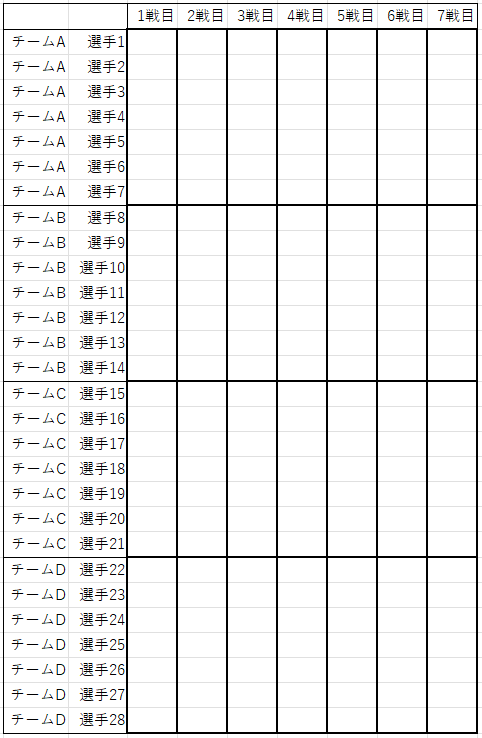
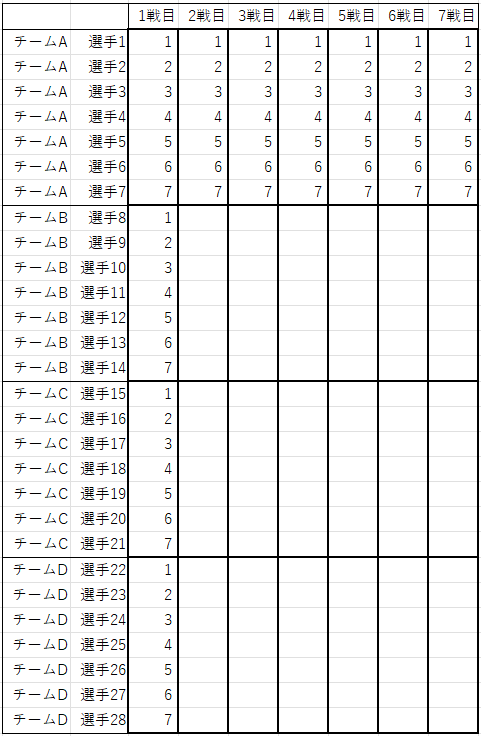
update common process (put 1-n)

Changed region(s): [[0.0, 0.0, 0.9979, 1.0]]

diff --git a/public/4team_sen_method.html b/public/4team_sen_method.html
@@ -23,7 +23,9 @@
       選手番号は、チームごとに固めます (先頭 4 分の 1 である選手 1 ～ n がチーム A, その次の 4 分の 1 がチーム B, ...)。<br />
       冒頭の条件を満たすには、「あるチーム (n 人) と、ある対戦が交わる n マス」それぞれに (同じ相手と複数回同卓しないようにしつつ) 1 ～ n
       までの卓番号を入れていけばよいです。<br />
-      下の画像は 7 卓 28 人 7 戦の例です。黒い太枠それぞれに、1 ～ 7 までの卓番号をうまく入れられればよいです。
+      一番左の列 (1 戦目) と一番上の段 (チーム A) にはあらかじめ「1, 2, 3, ...,
+      n」を入れて問題ありません。(冒頭の条件を満たす入れ方がある場合、そのうちの少なくとも 1 パターンが必ずこのようになることが証明できます。)<br />
+      下の画像は 7 卓 28 人 7 戦の例です。残る黒い太枠それぞれに、1 ～ 7 までの卓番号をうまく入れられればよいです。
     </p>
     <img src="images/4team_00.png" alt="7 卓 28 人 7 戦の場合の具体例 (卓番号を入れる前)" />
 
@@ -31,7 +33,6 @@
 
     <p>容易に n 戦 (他チームの全員と同卓できる) の卓組を構成できる方法があり、それを使用しました。</p>
     <ul>
-      <li>まず、一番左の列 (1 戦目) と一番上の段 (チーム A) には、すべて「1, 2, 3, ..., n」を入れる。</li>
       <li>チーム B の 2 戦目以降には、1 つ前の対戦から <b>1 つ</b>卓番号を増やしたもの (*) を順番に入れていく (2 戦目なら「2, 3, ..., n, 1」)。</li>
       <li>チーム C の 2 戦目以降には、1 つ前の対戦から <b>2 つ</b>卓番号を増やしたもの (*) を順番に入れていく (2 戦目なら「3, 4, ..., 1, 2」)。</li>
       <li>チーム D の 2 戦目以降には、1 つ前の対戦から <b>3 つ</b>卓番号を増やしたもの (*) を順番に入れていく (2 戦目なら「4, 5, ..., 2, 3」)。</li>
@@ -51,8 +52,8 @@
     </p>
     <img src="images/4team_02.png" alt="6 卓 24 人 6 戦の卓組を作ろうとした際の失敗例" />
     <p>
-      各「黒い太枠」について、1 ～ n の番号の入れ方の全パターンを探索するプログラムを組むことができますが、1 ～ n の並べ替え方は n! 通りであり、それを
-      10 個以上もとなると、n が 6 程度であっても、全パターンを探索するのは現実的ではありません。<br />
+      空いている各「黒い太枠」について、1 ～ n の番号の入れ方の全パターンを探索するプログラムを組むことができますが、1 ～ n の並べ替え方は n!
+      通りであり、それを 10 個以上もとなると、n が 6 程度であっても、全パターンを探索するのは現実的ではありません。<br />
       そのため、本手法では「1, 2, ..., n-1, n」「2, 3, ..., n, 1」のような、1 ずつ増加する (n の後を 1 とする) 列 (すなわち、上記 ①
       で登場したような列) に限定して、プログラムによる全探索を実施しました。<br />
       並べ替え方を限定することで条件を満たすパターンを見逃してしまう可能性もありますが、現実的な時間での探索が可能になりました。<br />
